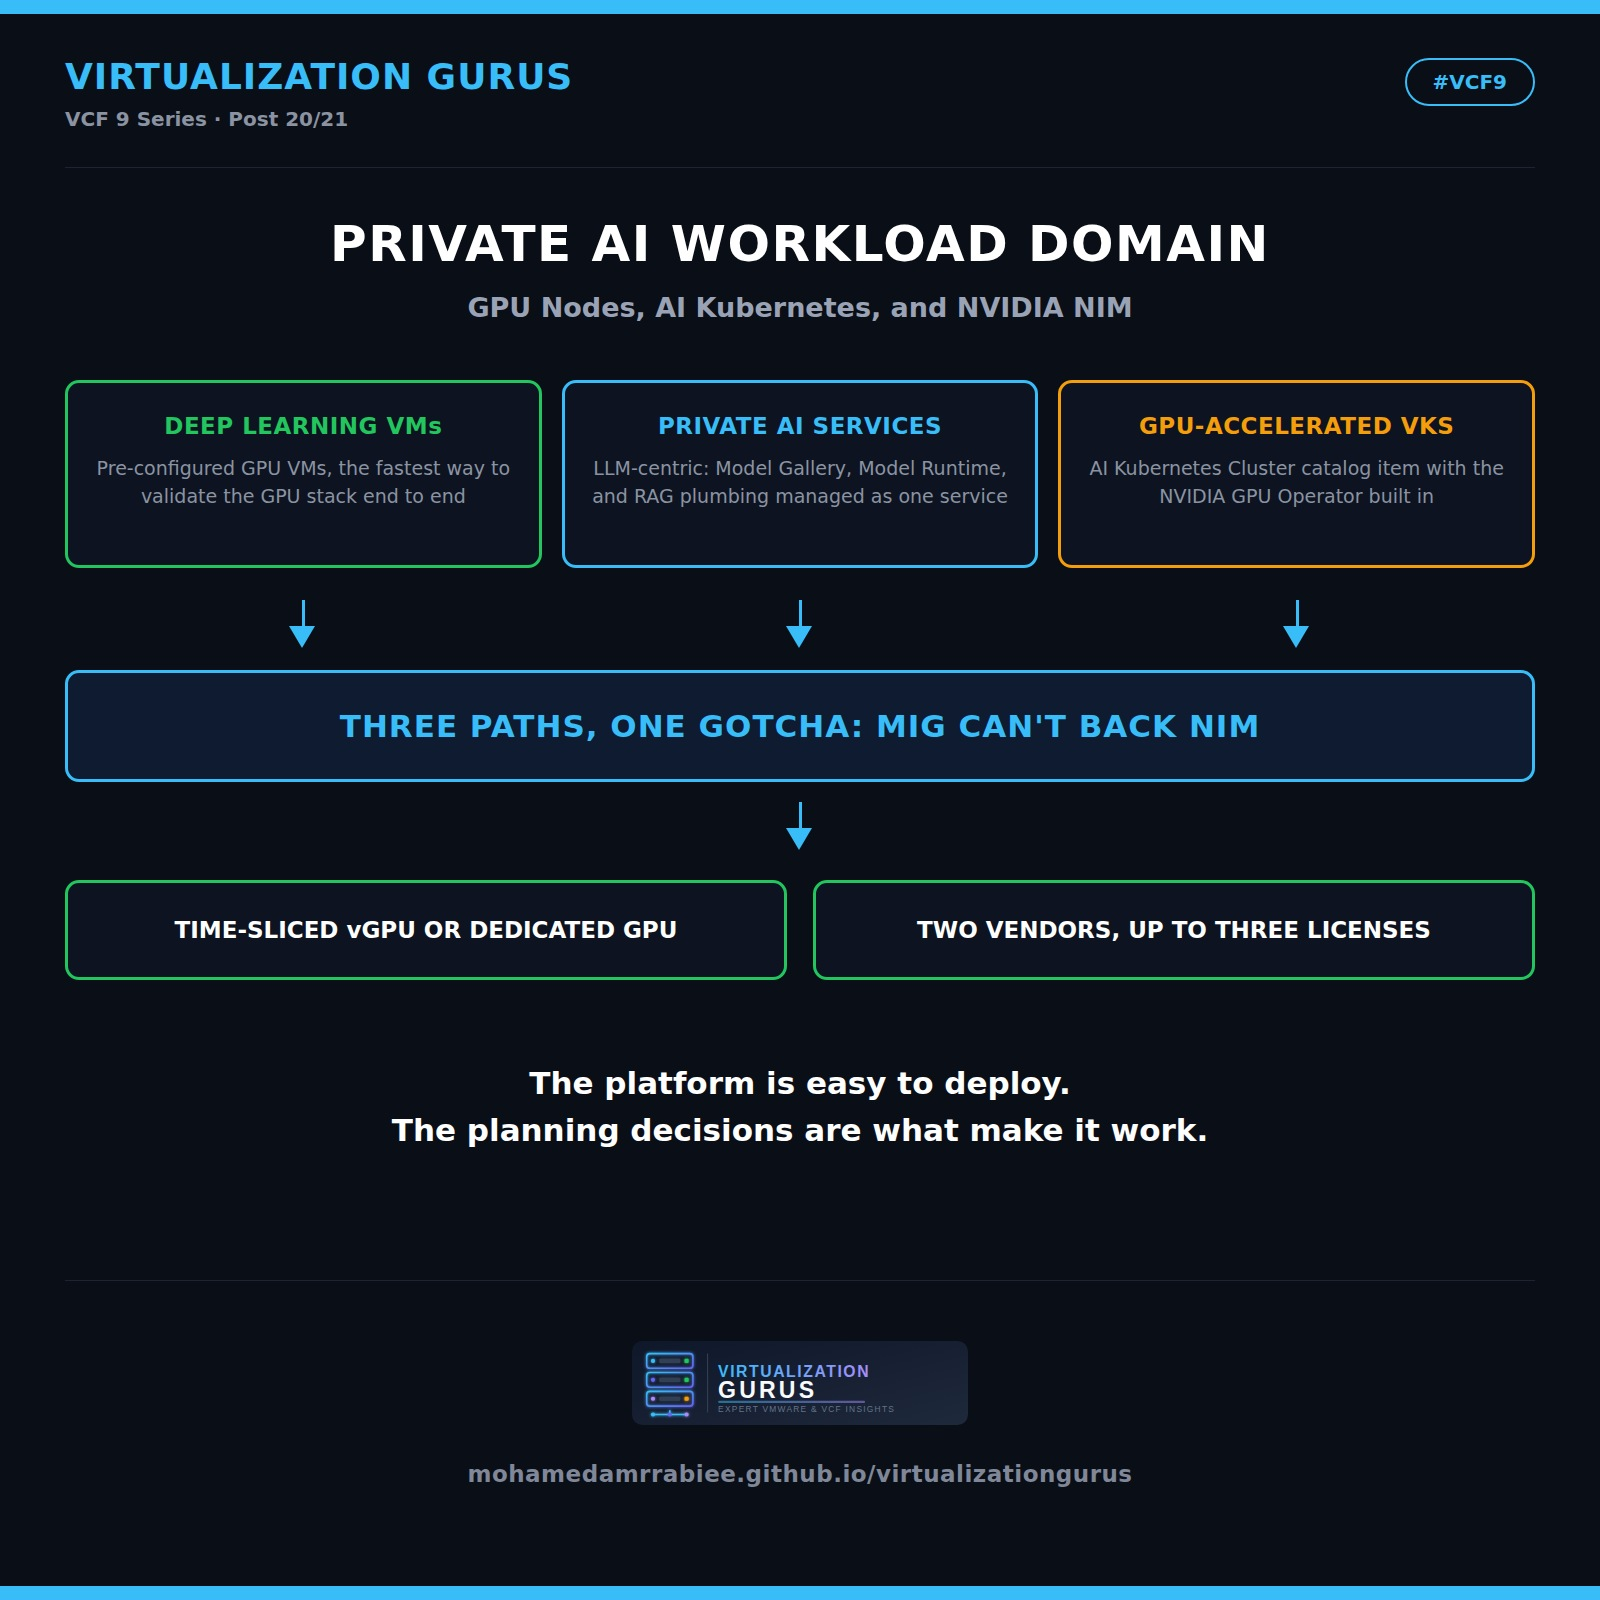
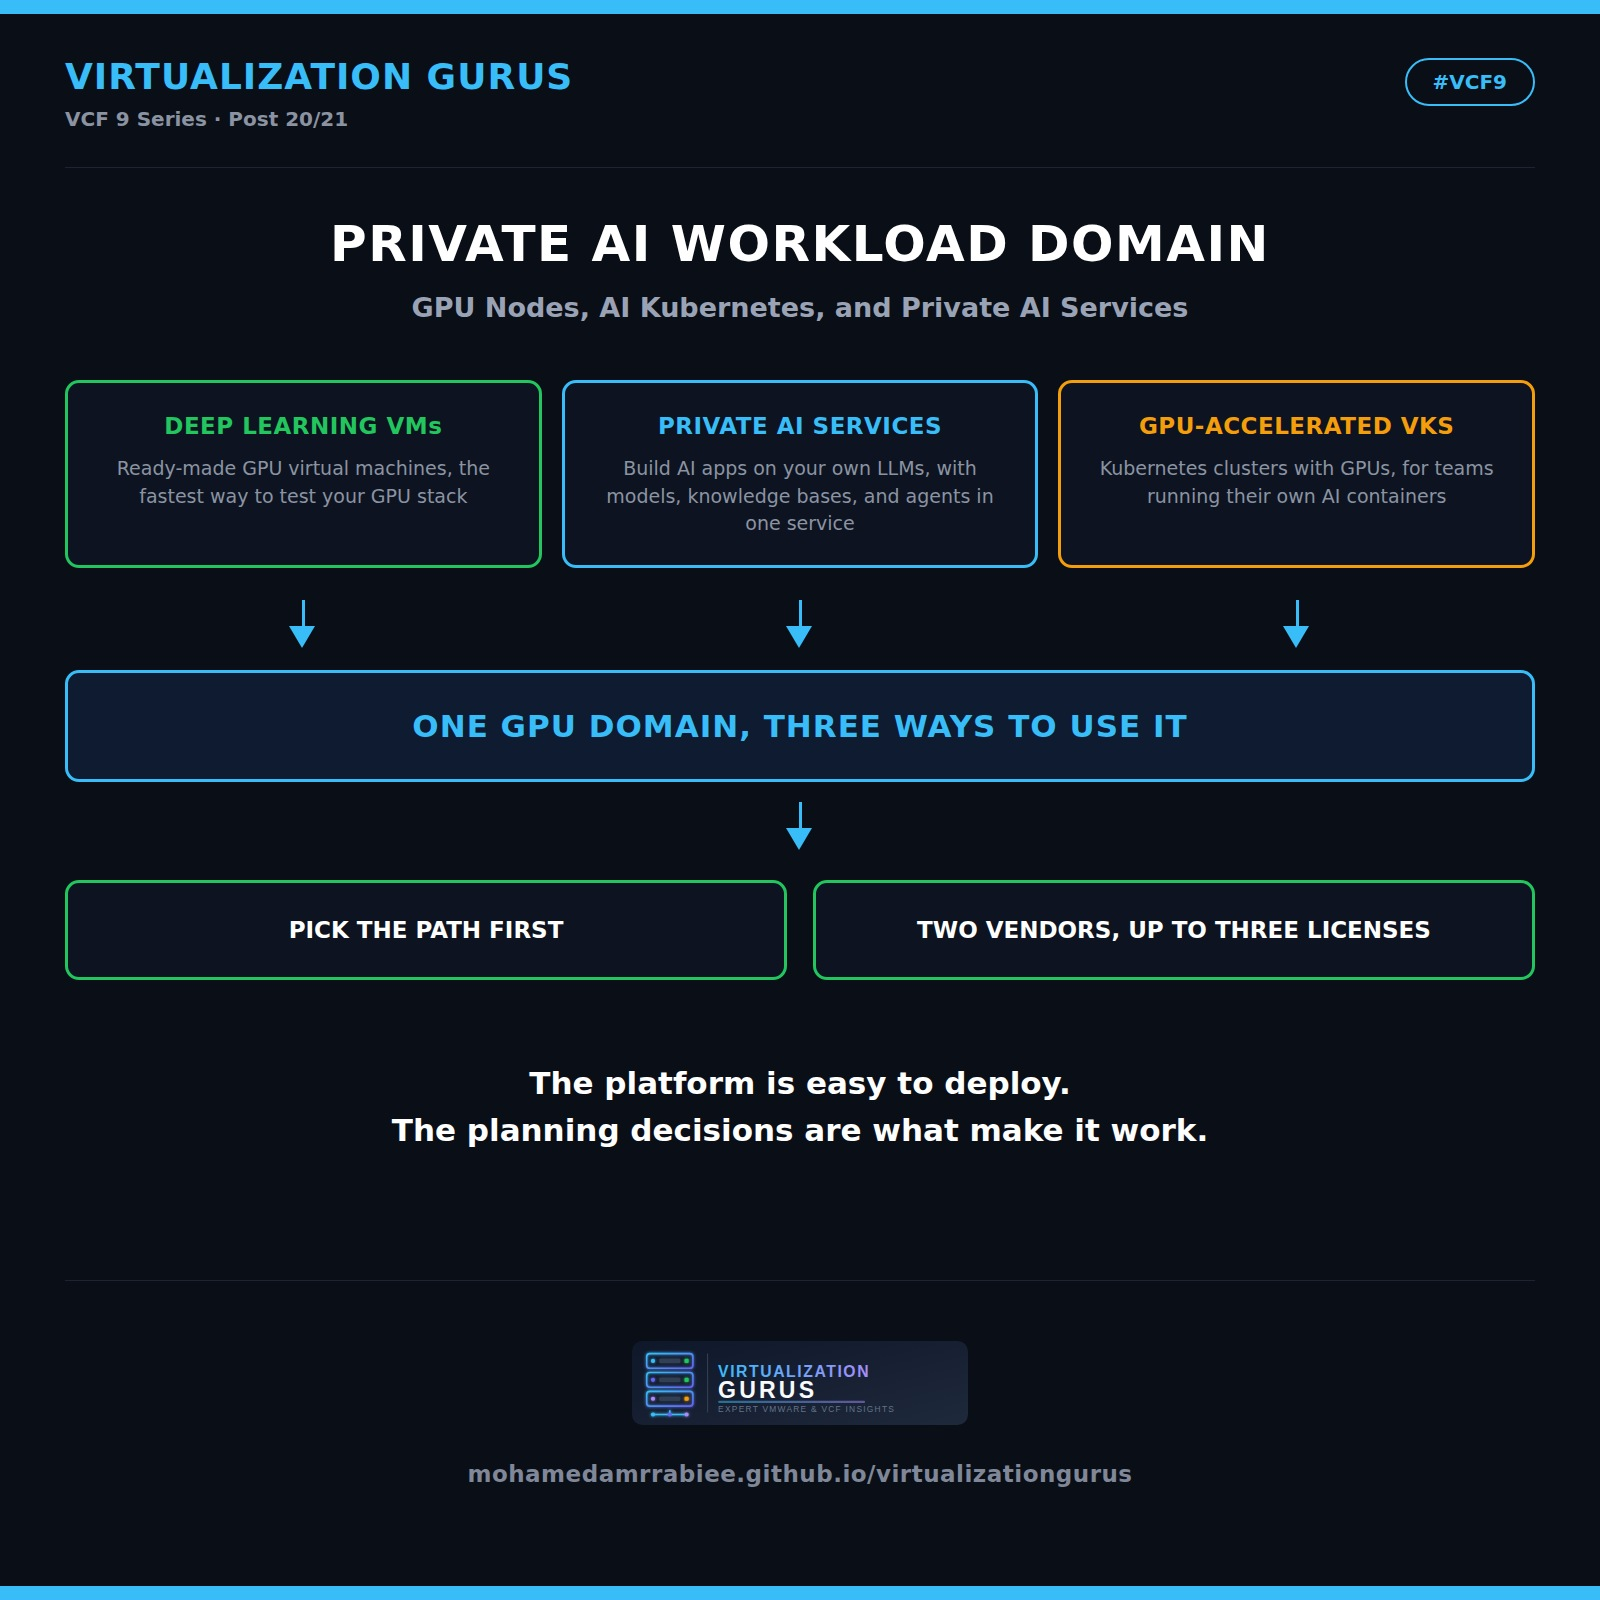
Simplify Post 20 to fundamentals and drop the MIG/NIM gotcha
Retitle to GPU Nodes, AI Kubernetes, and Private AI Services (cover, diagram, poster, LinkedIn draft and Post 19 What's Next updated to match).

diff --git a/content/posts/vcf9-private-ai-workload-domain.md b/content/posts/vcf9-private-ai-workload-domain.md
@@ -1,54 +1,42 @@
 ---
-title: "Private AI Workload Domain: GPU Nodes, AI Kubernetes, and NVIDIA NIM"
+title: "Private AI Workload Domain: GPU Nodes, AI Kubernetes, and Private AI Services"
 date: 2026-10-12
 draft: false
-tags: ["Private AI", "GPU", "NVIDIA", "VKS", "NIM", "vSphere Supervisor"]
+tags: ["Private AI", "GPU", "NVIDIA", "VKS", "Private AI Services", "vSphere Supervisor"]
 categories: ["VCF 9", "Private AI"]
-description: "A GPU workload domain sounds like one build. VMware Private AI Foundation with NVIDIA actually gives you three distinct consumption paths, each with a different host bill of materials, and the licensing model spans two vendors who don't sell you the same piece."
+description: "Running AI on your own infrastructure sounds like one project. With VMware Private AI Foundation with NVIDIA it is really three different ways to use your GPUs, plus a licensing model that spans two vendors, and the choices you make early shape everything you build and buy."
 seriesPart: 20
 cover:
   image: "/virtualizationgurus/images/covers/vcf9-private-ai-workload-domain.jpg"
-  alt: "Private AI Workload Domain: GPU Nodes, AI Kubernetes, and NVIDIA NIM"
+  alt: "Private AI Workload Domain: GPU Nodes, AI Kubernetes, and Private AI Services"
   relative: false
 ---
 
 ## Introduction
 
-"Stand up a GPU workload domain" reads like a single task. It isn't. VMware Private AI Foundation with NVIDIA (PAIF) on VCF 9.1.x gives you three genuinely different ways to consume that GPU capacity, Deep Learning VMs, Private AI Services, and GPU-accelerated VKS clusters, and the one you pick changes your host bill of materials before you've deployed a single workload. Layer on a licensing model that spans two vendors who each sell you a different piece, and this is a domain where the planning decisions matter more than the deployment steps.
+"Run AI on our own infrastructure" sounds like a single project. With VMware Private AI Foundation with NVIDIA (PAIF) on VCF 9.1.x it isn't, there are three different ways to use your GPUs, and the one you pick changes what you build before the first workload runs. Add a licensing model where two vendors each sell you a different piece, and the planning decisions matter more than the deployment steps. This post covers the fundamentals, what the domain is made of, the three ways to consume it, and what you need to license.
 
-## The Architecture Pattern: Keep the Management Domain GPU-Free
+## What a Private AI Workload Domain Is
 
-Broadcom's deployment flow builds the GPU capacity into a dedicated VI workload domain, made up of GPU-accelerated ESX hosts, an NSX Edge cluster with an active-standby Tier-0 gateway (only centralized, Edge-based connectivity is supported), and a Supervisor instance on the domain's default cluster. The management domain stays outside that build, so keep it GPU-free. Resist the temptation to collapse everything into a single cluster to save hosts, especially heading toward production, because the Supervisor and the NSX Edge nodes have their own placement and availability needs and shouldn't compete with an AI workload for a GPU host during a failover. The documented starting point is a minimum of three GPU-enabled ESX hosts for the initial cluster.
+PAIF builds its GPU capacity into a dedicated VI workload domain, made up of GPU-enabled ESX hosts, an NSX Edge cluster, and a Supervisor on the domain's default cluster. The management domain stays outside that build, so keep it GPU-free. Broadcom's documented starting point is at least three GPU-enabled ESX hosts in the initial cluster.
 
-Supervisor is the Kubernetes control plane for the domain, built into vSphere, so there is no separate Kubernetes distribution to install. Worker nodes are ordinary vSphere VMs, and GPUs attach to them through NVIDIA vGPU or DirectPath I/O. One operational detail to plan for: vGPU vMotion is not on by default, Broadcom's workload domain steps have you set the `vgpu.hotmigrate.enabled` advanced setting to true, and VMs using DirectPath I/O keep exclusive device access, so don't design failover around moving them live.
+Supervisor is the Kubernetes control plane built into vSphere, so there is no separate Kubernetes product to install. GPUs reach virtual machines in one of two ways, NVIDIA vGPU, which shares a physical GPU between workloads, or DirectPath I/O, which gives a VM or Kubernetes node exclusive access to a GPU.
 
-## Three Consumption Paths, Three Different Host Bills of Materials
+## Three Ways to Use the GPUs
 
-PAIF doesn't give you one way to run AI workloads, it gives you three, and the choice isn't cosmetic:
+PAIF doesn't give you one way to run AI workloads, it gives you three, and the right one depends on who is consuming the GPUs:
 
--> **Deep Learning VMs (DLVMs)**: pre-configured VMs optimized and validated by NVIDIA and VMware, delivered as a content library template with the NVIDIA Container Toolkit, Docker, a PyTorch Conda environment, and a data center GPU driver already in place. Some NVIDIA NGC workloads, such as the DCGM Exporter for GPU monitoring and Triton Inference Server, can be installed automatically at deploy time. Data scientists and DevOps engineers request one through a VCF Automation catalog item or kubectl, and VI administrators can deploy one straight onto a cluster from the vSphere Client. It is the fastest way to prove your GPU stack is healthy end to end.
+-> **Deep Learning VMs (DLVMs)**: ready-made virtual machines validated by NVIDIA and VMware, with the NVIDIA drivers and common machine learning tooling already installed. Data scientists request one through a VCF Automation catalog item or kubectl, and VI administrators can deploy one from the vSphere Client. It is the quickest way to prove your GPU stack works end to end.
 
--> **Private AI Services**: the LLM-centric path, installed as a Supervisor Service by VI administrators, then enabled in a namespace by an organization administrator in VCF Automation. It bundles a Model Gallery in Harbor, a Model Runtime that serves model endpoints, a PostgreSQL vector database for knowledge bases and RAG, an Agent Builder, and MCP server integration, all managed as one integrated service rather than something you assemble yourself.
+-> **Private AI Services**: the path for building applications on large language models (LLMs), installed by a VI administrator as a Supervisor Service. It bundles a Model Gallery in Harbor for storing models, a Model Runtime that serves them, knowledge bases for retrieval-augmented generation (RAG), and an Agent Builder, all managed as one integrated service.
 
--> **GPU-accelerated VKS clusters**: through VCF Automation, the AI Kubernetes Cluster catalog item deploys VKS clusters with the NVIDIA GPU Operator, which sets up the right NVIDIA driver on the worker nodes, and it asks for an NVIDIA NGC API key at request time. The kubectl route is documented for both vGPU and GPU passthrough, in connected and disconnected environments, so reach for it when you need a topology or automation the catalog item doesn't give you. VCF 9.1 also adds DirectPath enablement for GPUs, giving VMs and Kubernetes nodes exclusive GPU access without needing an NVAIE license.
+-> **GPU-accelerated VKS clusters**: Kubernetes clusters whose worker nodes have GPUs, for teams that want to run their own AI containers. The AI Kubernetes Cluster catalog item in VCF Automation deploys them with the NVIDIA GPU Operator, which sets up the NVIDIA driver on the workers, and it asks for an NVIDIA NGC API key when you request one.
 
-## The Gotcha Nobody Reads Until It's Already a Problem: MIG Cannot Back NIM
+## Licensing Spans Two Vendors
 
-Multi-Instance GPU (MIG) partitions a physical GPU into hardware-isolated slices, which is useful when you need strict isolation between users. Broadcom's requirements page is explicit about the limitation: MIG sharing is incompatible with NVIDIA NIM. If your inference workload needs NIM, plan for time-slicing vGPU or a dedicated GPU rather than MIG. Match the mode to the workload before you provision anything, because changing GPU assignment after the fact means reworking the hosts and the workloads on them.
+PAIF involves up to three entitlements. A VCF subscription and the Private AI Foundation license both come from Broadcom, which offers Private AI Foundation with NVIDIA as a solution license for VCF. The NVIDIA AI Enterprise (NVAIE) license comes directly from NVIDIA, and Broadcom's requirements state it is needed for vGPU workloads, for the host driver and the guest drivers. With VCF 9.1, DirectPath workloads don't need it, so the way you attach GPUs affects what you buy from NVIDIA.
 
-## Licensing Spans Two Vendors, and They Don't Sell You the Same Thing
-
-PAIF involves up to three entitlements. A VCF subscription and the Private AI Foundation license both come from Broadcom, which offers Private AI Foundation with NVIDIA as a solution license for VCF. The NVIDIA AI Enterprise (NVAIE) license comes directly from NVIDIA, and Broadcom's requirements state it is needed for the vGPU host driver VIB on the ESX hosts and the guest OS drivers, while the 9.1 release notes add that it is also needed to download AI container images from NGC. That makes it a vGPU-mode requirement: with the 9.1 DirectPath enablement, passthrough workloads don't need it, so your GPU mode now drives your NVIDIA licensing as well as your architecture.
-
-There's also a placement subtlety worth knowing before you assign anything. The Private AI Foundation license capacity is allocated only to the GPU-enabled workload domains, but the guided deployment UI in the vSphere Client and the quickstart wizard in VCF Automation only appear if the license is also assigned to the management domain.
-
-## Where Bring-Ups Actually Stall
-
-Prerequisites are where first attempts tend to stall. For vGPU, SR-IOV must be enabled in the host BIOS and on the graphics devices, and the matching vGPU host driver VIB has to be added to the cluster's vSphere Lifecycle Manager image before host remediation. When you deploy the workload domain, you select hosts whose NVIDIA vGPU state is Ready, so a host that missed either step simply won't qualify. None of it is hard to fix, but all of it is easier to verify up front than to discover mid-deployment.
-
-## A Real Version Compatibility Trap
-
-Broadcom's 9.0.1 release notes for Private AI Foundation with NVIDIA document a specific known issue worth knowing if you're touching an existing deployment: AI Kubernetes blueprints in VCF Automation no longer work with VKr (vSphere Kubernetes release) 1.33 or later, because the `tanzukubernetescluster` class type they depend on is deprecated. The 9.1 notes also flag that NVIDIA GPU Operator v25.3.1, the version in the AI Kubernetes Cluster blueprint, has reached end of life, and that you can update the blueprint to v26.3.1 by following Broadcom KB 439984. The same notes remove the VCF Automation catalog items for NVIDIA RAG because NVIDIA no longer supports their blueprints, so don't build a runbook around them. If you're planning a VKS upgrade alongside an existing PAIF deployment, check blueprint compatibility against the release notes for your version before you upgrade, not after.
+One placement detail is worth knowing up front. The Private AI Foundation license is allocated to the GPU-enabled workload domains, but the guided deployment UI in the vSphere Client only appears if the license is also assigned to the management domain.
 
 ## Architectural Overview
 
@@ -56,24 +44,16 @@ Broadcom's 9.0.1 release notes for Private AI Foundation with NVIDIA document a 
   <object type="image/svg+xml" data="/virtualizationgurus/images/diagrams/vcf9-private-ai-workload-domain.svg"></object>
 </div>
 
-## What 9.1.1 Changes
+## What 9.1.1 Changed
 
-VCF 9.1.1, released September 3, 2026, doesn't change the three-path model, it refreshes the pieces underneath it. The Private AI Foundation with NVIDIA 9.1.1 release notes list two additions:
-
--> **Private AI Services 3.0**: shared models run centrally and can be reached from other Private AI Services instances and namespaces, third-party cloud LLMs such as Google Gemini and OpenAI-compatible services can be used with token usage tracking, and observability adds live model and agent metrics, Grafana dashboards, backend health monitoring, and full LLM tracing.
-
--> **A new Deep Learning VM image**: based on Ubuntu 26.04 LTS, it adds the helm command and the kubectl vSphere plug-in, plus a deep-learning-container image that upgrades the `tkg-gpu-console` image used by the AI Kubernetes Cluster catalog item.
-
-Two details are worth checking before you upgrade. Private AI Services 3.0 deploys on VKr 1.34 with the builtin-generic-v3.5.0 ClusterClass, so confirm that against your Supervisor and VKS versions first. And if you activate it through the UI with local accounts, the release notes document that the default base URL can't be set and API tokens aren't enabled, both of which you fix with kubectl.
+VCF 9.1.1 keeps the same three paths. Its Private AI Foundation release notes list two additions, a new version of Private AI Services, 3.0, and a new Deep Learning VM image. Check the release notes for your version before you upgrade an existing deployment, because AI Kubernetes blueprints and NVIDIA GPU Operator versions have had compatibility notes in earlier releases.
 
 ## A Quick Checklist
 
-- **Choosing a consumption path?** Match it to the actual workload: DLVM to validate the stack, Private AI Services for LLM serving without assembling your own RAG plumbing, VKS for teams that want Kubernetes-native AI.
-- **Planning inference with NIM?** Time-sliced vGPU or a dedicated GPU, never MIG, decide before provisioning.
-- **Budgeting licenses?** Private AI Foundation license on the GPU workload domain, and on the management domain too for the guided UI. NVAIE for vGPU mode, and check whether DirectPath covers your workload before buying it.
-- **Prepping hosts?** At least three GPU hosts, SR-IOV in BIOS, the vGPU driver VIB in your vLCM image, and the vGPU vMotion setting if you need live migration.
-- **Upgrading VKS on an existing PAIF deployment?** Check AI Kubernetes blueprint compatibility against VKr 1.33+, and update the GPU Operator (v25.3.1 is end of life) before you touch the upgrade.
-- **Moving to 9.1.1?** Private AI Services 3.0 expects VKr 1.34 with the builtin-generic-v3.5.0 ClusterClass, so line up your Kubernetes versions first.
+- **Choosing a path?** Deep Learning VMs to validate the GPU stack, Private AI Services to build LLM applications, GPU-accelerated VKS clusters for teams that want Kubernetes-native AI.
+- **Planning the hosts?** A dedicated GPU workload domain with at least three GPU hosts, and a GPU-free management domain.
+- **Budgeting licenses?** The Private AI Foundation license from Broadcom, plus NVAIE from NVIDIA if you use vGPU. Check whether DirectPath covers your workload before buying NVAIE.
+- **Upgrading an existing deployment?** Read the release notes for your target version first.
 
 ## What's Next
 

diff --git a/social/linkedin-drafts/vcf9-private-ai-workload-domain-linkedin.md b/social/linkedin-drafts/vcf9-private-ai-workload-domain-linkedin.md
@@ -1,15 +1,15 @@
-LinkedIn Draft: Private AI Workload Domain: GPU Nodes, AI Kubernetes, and NVIDIA NIM
+LinkedIn Draft: Private AI Workload Domain: GPU Nodes, AI Kubernetes, and Private AI Services
 Source post: content/posts/vcf9-private-ai-workload-domain.md
 Image: social/linkedin-drafts/images/vcf9-private-ai-workload-domain-linkedin.jpg
 Status: READY, post Mon 2026-10-12 together with the blog post
 
-"Build a GPU platform" is not one task.
+"Run AI on our own infrastructure" is not one task.
 
 Three things worth getting right before the first AI workload lands:
 
-1. Pick the consumption path first. Ready-made GPU virtual machines, a managed LLM service, or GPU-enabled Kubernetes clusters. Each one changes what you need to build.
-2. Match the GPU mode to the workload. Slicing a GPU into isolated partitions looks efficient, but it does not work with NVIDIA NIM inference microservices. Decide before you provision.
-3. Plan licensing across two vendors. Broadcom and NVIDIA each sell a different piece, and the GPU mode you choose affects what you need to buy.
+1. Pick how you will use the GPUs first. Ready-made GPU virtual machines, a service for building AI apps on your own models, or Kubernetes clusters with GPUs. Each one changes what you need to build.
+2. Give the GPUs their own domain. A dedicated workload domain with at least three GPU hosts, and a management domain that stays GPU-free.
+3. Plan licensing across two vendors. Broadcom and NVIDIA each sell a different piece, and how you attach the GPUs affects what you need to buy.
 
 The platform is easy to deploy. The planning decisions are what make it work.
 

diff --git a/content/posts/vcf9-dr-ransomware-recovery.md b/content/posts/vcf9-dr-ransomware-recovery.md
@@ -65,7 +65,7 @@ The network isolation techniques underpinning the IRE, Tier-1 gateways, DFW-base
 
 ## What's Next
 
-Next in this series: Private AI Workload Domain, GPU Nodes, AI Kubernetes, and NVIDIA NIM.
+Next in this series: Private AI Workload Domain, GPU Nodes, AI Kubernetes, and Private AI Services.
 
 ## Further Reading (Official Broadcom Documentation)
 
